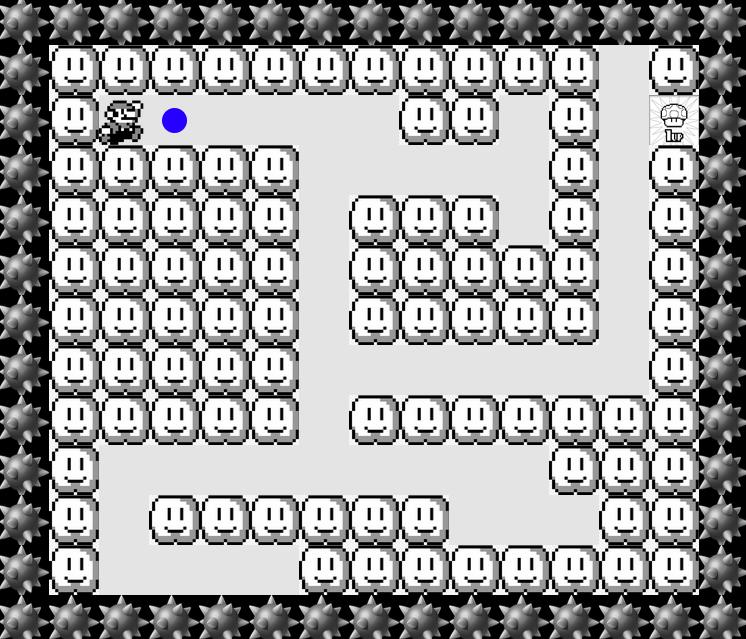
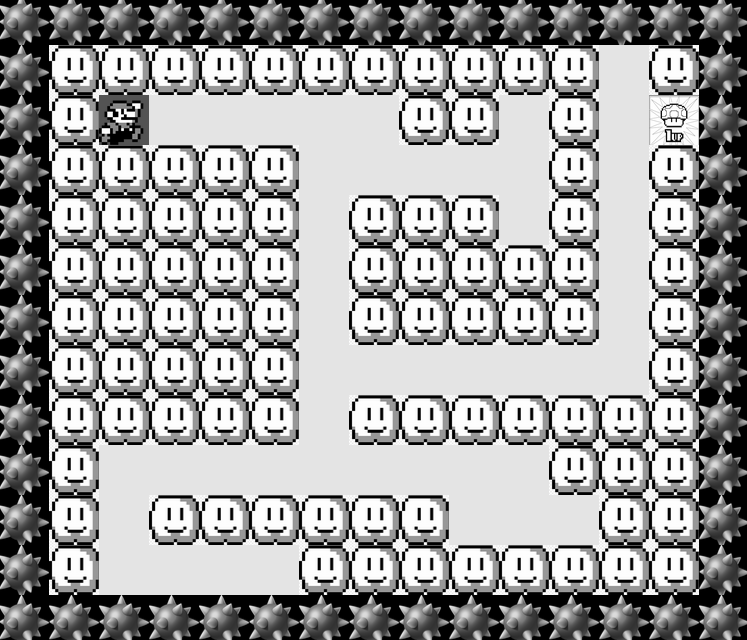
Modifs

diff --git a/level1.js b/level1.js
@@ -1,5 +1,5 @@
 const body = document.querySelector('body');
-body.className = 'level1';
+body.className = 'body';
 
 const multiline = '----------------***********.*--*S.....**.*.T--*****.....*.*--*****.***.*.*--*****.*****.*--*****.*****.*--*****.......*--*****.*******--*.........***--*.******...**--*....********----------------';
 
@@ -86,6 +86,6 @@ document.body.addEventListener("keydown", function(e) {
         }
     }
     // else if(e.key === 'r'){
-    //     document.querySelector("body > div:nth-child(34)").appendChild(balle)
+    //     document.querySelector("body > div:nth-chil")
     // }
 })

diff --git a/maze.css b/maze.css
@@ -1,4 +1,4 @@
-.level1 {
+body {
     display: flex;
     flex-wrap: wrap;
     width: calc(15*40px);
@@ -22,8 +22,7 @@
 }
 
 .start {
-    background-image: url(img/mario.png);
-    background-size: cover;
+    background-color: rgb(83, 83, 83);
 }
 
 .treasure {
@@ -37,9 +36,10 @@
 }
 
 .player {
-    width: 20px;
-    height: 20px;
-    margin: 10px;
-    border-radius: 50%;
-    background-color: rgb(38, 0, 255);
+    background-image: url(img/mario.png);
+    width: 40px;
+    height: 40px;
+    background-repeat: no-repeat;
+    background-position: center;
+    background-size: cover;
 }

diff --git a/readme.md b/readme.md
@@ -7,7 +7,7 @@ We had to be able to create a maze game using only **Javascript** and **CSS** an
 We had to start by creating level 1 with a defined pattern of 13 by 11, I took the liberty of adding a border so mine is 15 by 13 tiles.  
 
 ## The result
-Mario is the starting point of the labyrinth, the clouds represent the walls, the picks represent the border and the mushroom '1up' represents the treasure to finish the level. The player is represented by the blue point.  
+The darkest grey tile is the starting point of the labyrinth, the clouds represent the walls, the picks represent the border and the mushroom '1up' represents the treasure to finish the level. The player is represented by Mario.  
 
 If you collide with a wall or the border, a message will be displayed in the console.  
 You can move the player with the directional arrows or with **Z Q S D**.  
